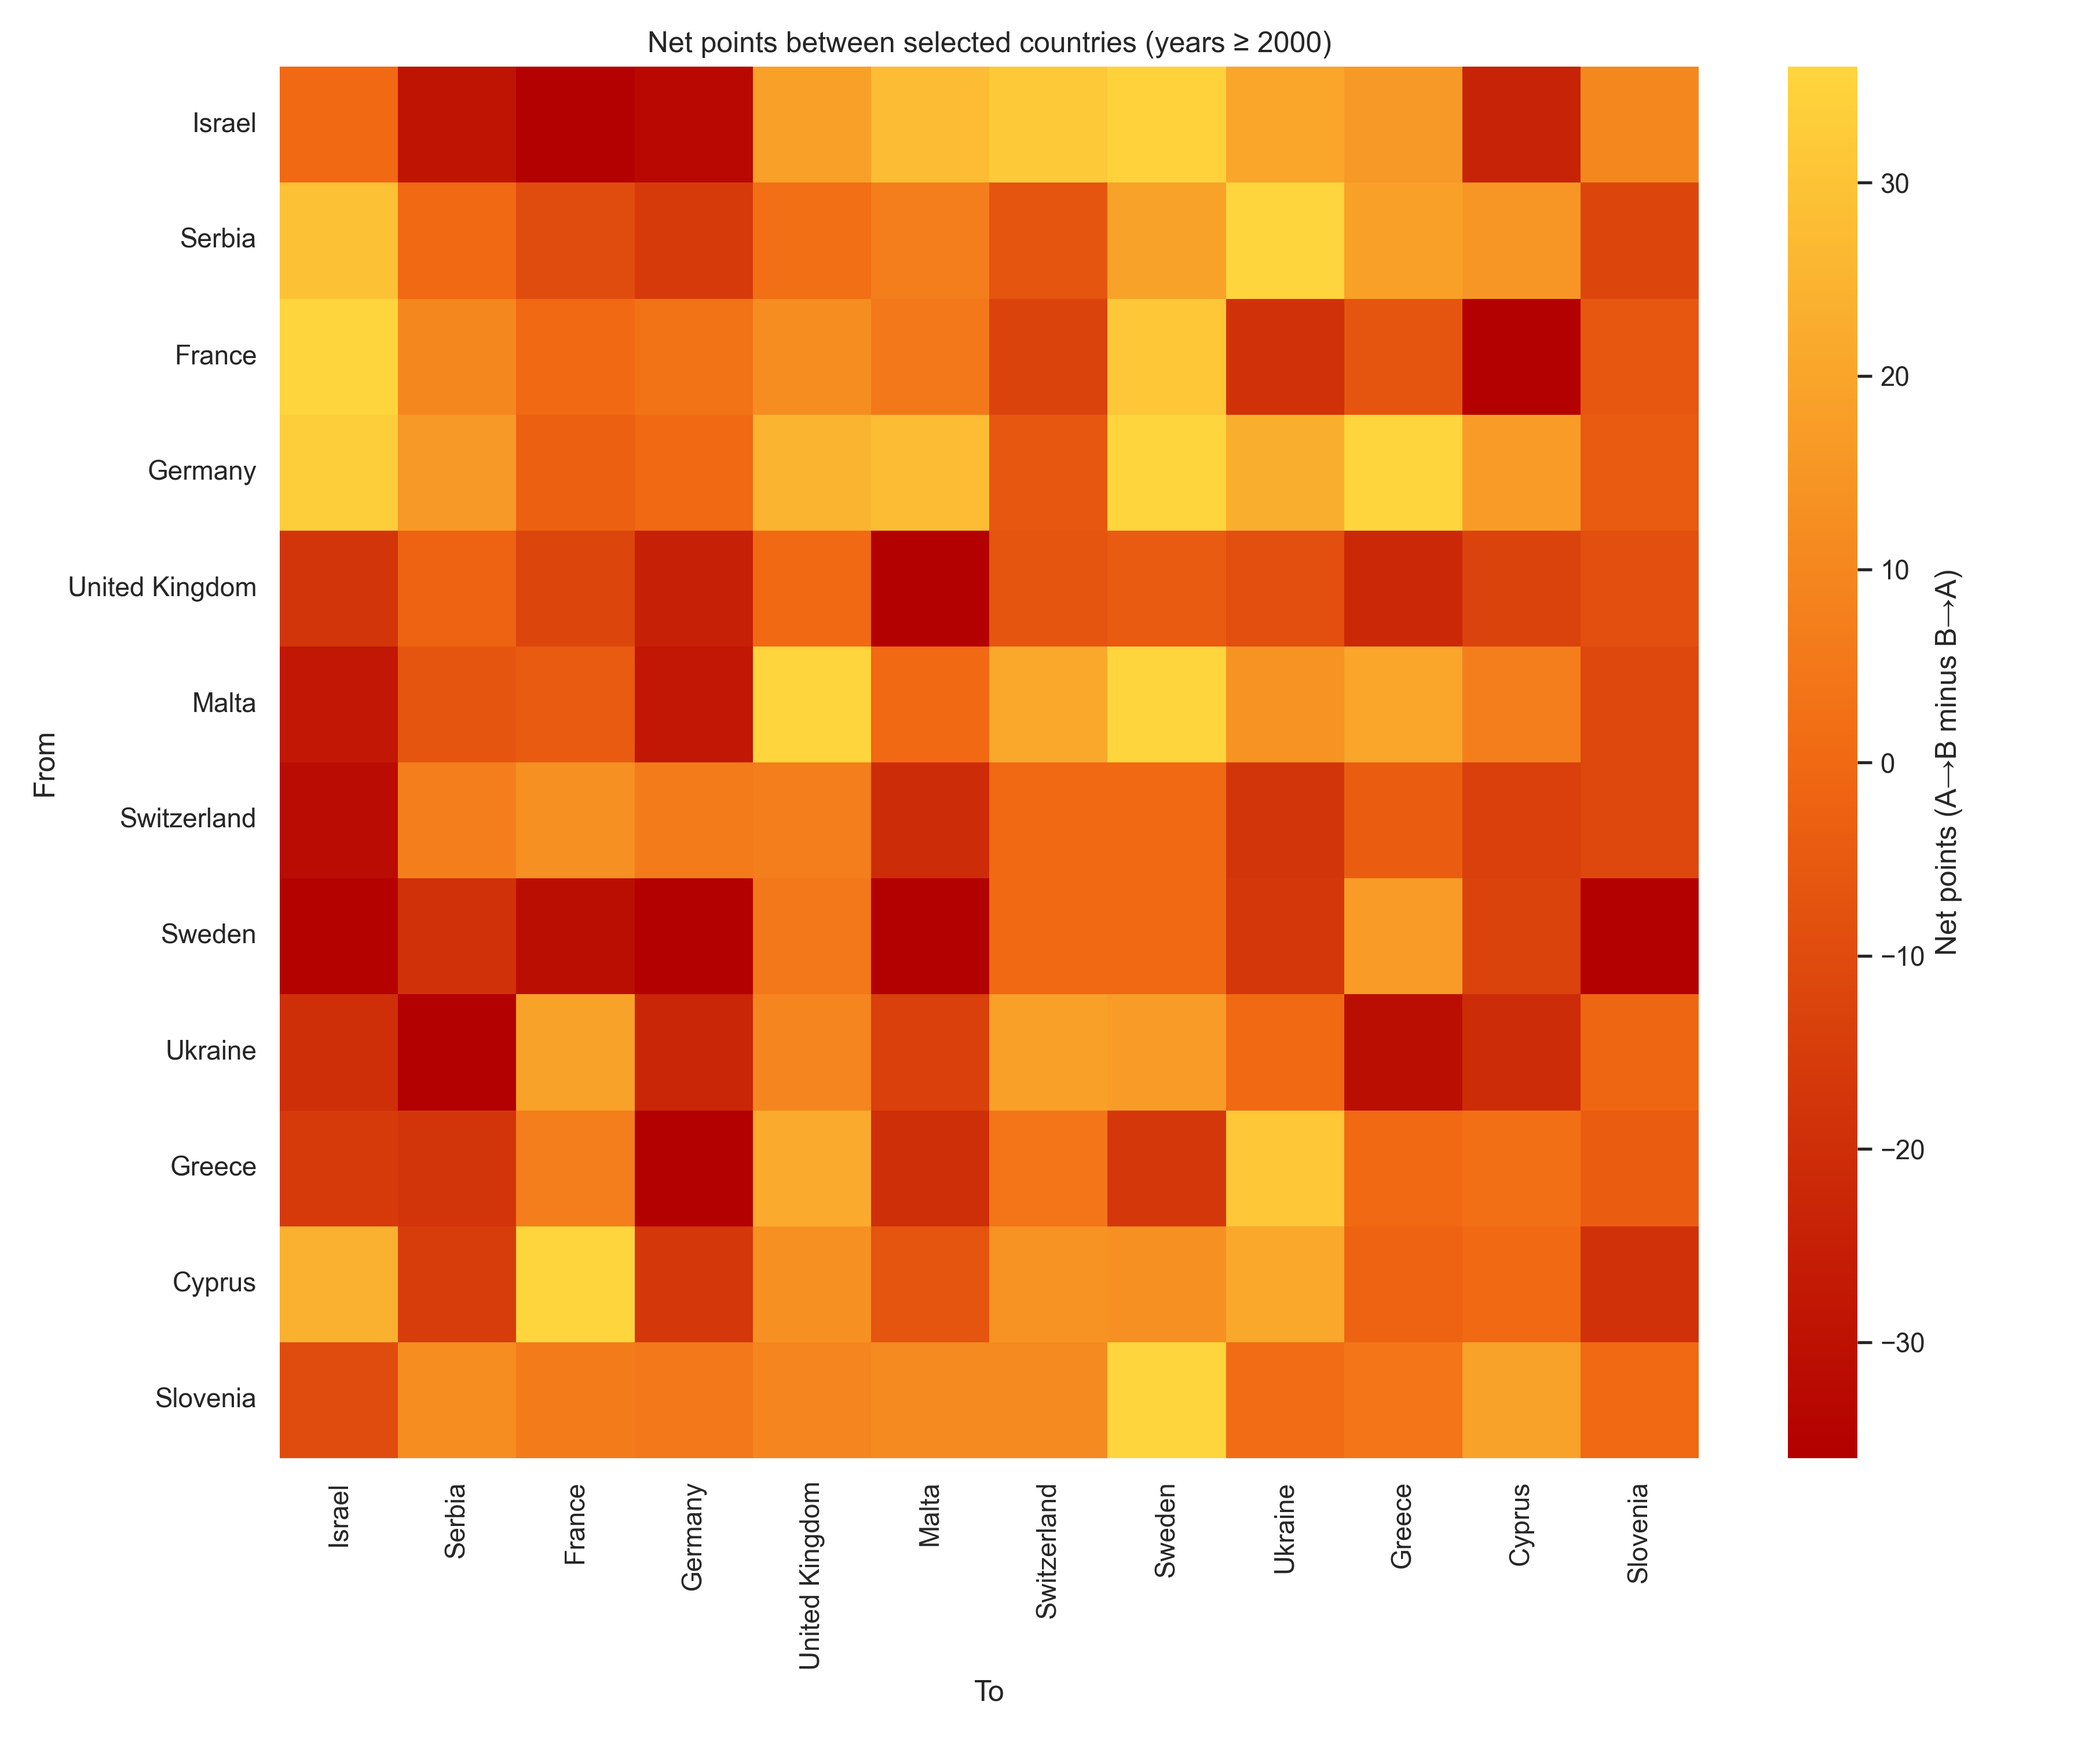
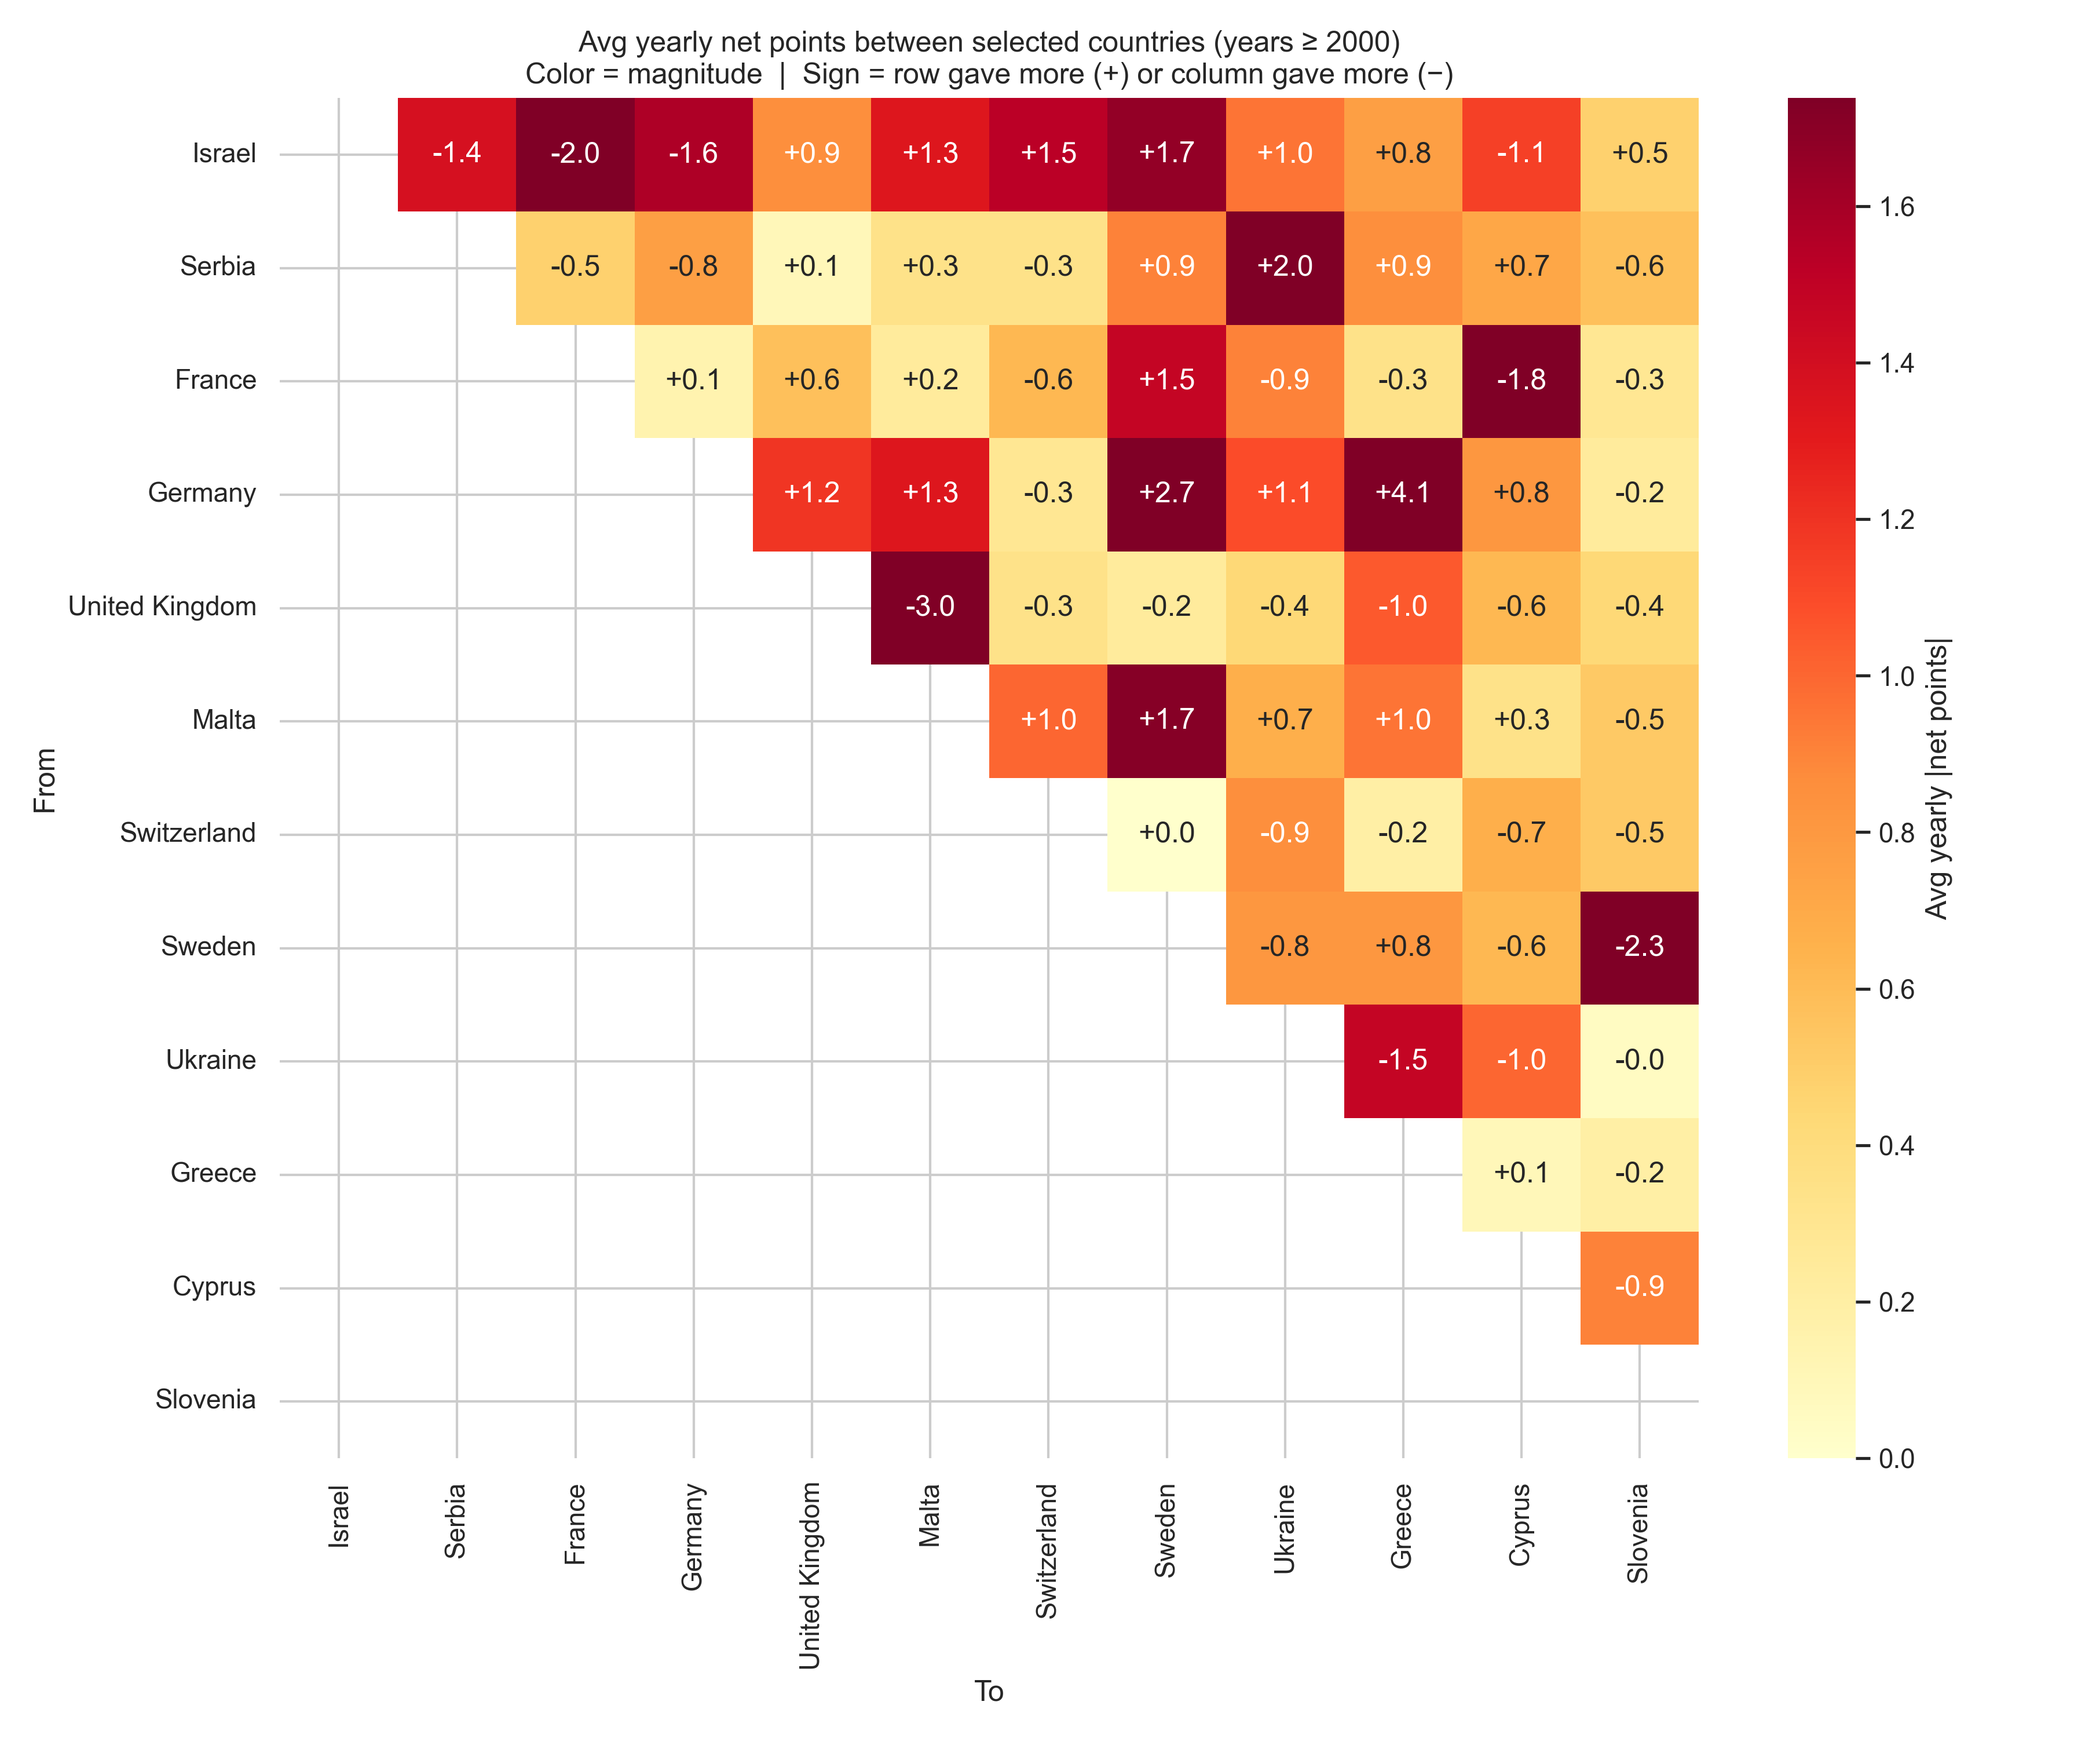
relations matrix: upper triangle, avg yearly, abs color with signed annotation

diff --git a/relations_matrix.py b/relations_matrix.py
@@ -3,44 +3,59 @@ from __future__ import annotations
 from pathlib import Path
 
 import matplotlib.pyplot as plt
+import numpy as np
 import pandas as pd
 import seaborn as sns
-from matplotlib.colors import LinearSegmentedColormap
 
 
 def build_relations_matrix(df: pd.DataFrame, countries: list[str]) -> pd.DataFrame:
-    totals = (
-        df.groupby(["From", "To"], dropna=False)["Points"]
+    yearly = (
+        df.groupby(["Year", "From", "To"])["Points"]
         .sum()
-        .unstack(fill_value=0)
+        .unstack("To", fill_value=0)
+        .reindex(columns=countries, fill_value=0)
     )
-    totals = totals.reindex(index=countries, columns=countries, fill_value=0)
-    return totals - totals.T
+
+    yearly_nets = []
+    for _, group in yearly.groupby(level="Year"):
+        mat = group.droplevel("Year").reindex(index=countries, fill_value=0)
+        yearly_nets.append(mat - mat.T)
+
+    if not yearly_nets:
+        return pd.DataFrame(0.0, index=countries, columns=countries)
+
+    return sum(yearly_nets) / len(yearly_nets)
 
 
-def plot_relations_matrix(net: pd.DataFrame, output_path: Path, min_year: int) -> None:
-    cmap = LinearSegmentedColormap.from_list(
-        "red_orange_yellow", ["#b30000", "#f16913", "#ffd53d"]
-    )
-    abs_vals = net.abs().stack()
-    vmax = float(abs_vals.quantile(0.90))
+def plot_relations_matrix(avg_net: pd.DataFrame, output_path: Path, min_year: int) -> None:
+    # mask lower triangle + diagonal — show each pair once
+    mask = np.tril(np.ones(avg_net.shape, dtype=bool))
+
+    avg_abs = avg_net.abs()
+    upper_vals = avg_abs.where(~mask).stack()
+    vmax = float(upper_vals.quantile(0.90))
     if vmax == 0:
-        vmax = float(abs_vals.max())
+        vmax = float(upper_vals.max())
     if vmax == 0:
         vmax = 1.0
 
     plt.figure(figsize=(12, 10))
     ax = sns.heatmap(
-        net,
-        cmap=cmap,
-        center=0,
-        vmin=-vmax,
+        avg_abs,           # color intensity = absolute value
+        mask=mask,
+        cmap="YlOrRd",
+        vmin=0,
         vmax=vmax,
-        cbar_kws={"label": "Net points (A→B minus B→A)"},
+        annot=avg_net,     # annotation text = signed value
+        fmt="+.1f",
+        cbar_kws={"label": "Avg yearly |net points|"},
     )
     ax.set_xlabel("To")
     ax.set_ylabel("From")
-    ax.set_title(f"Net points between selected countries (years ≥ {min_year})")
+    ax.set_title(
+        f"Avg yearly net points between selected countries (years ≥ {min_year})\n"
+        "Color = magnitude  |  Sign = row gave more (+) or column gave more (−)"
+    )
     plt.tight_layout()
     plt.savefig(output_path, dpi=300)
     plt.close()
